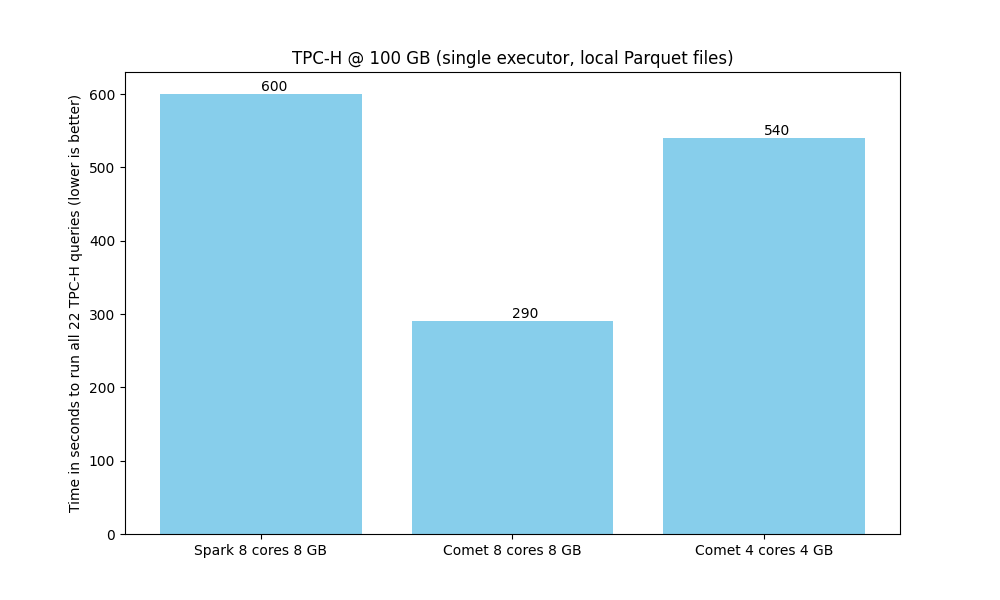
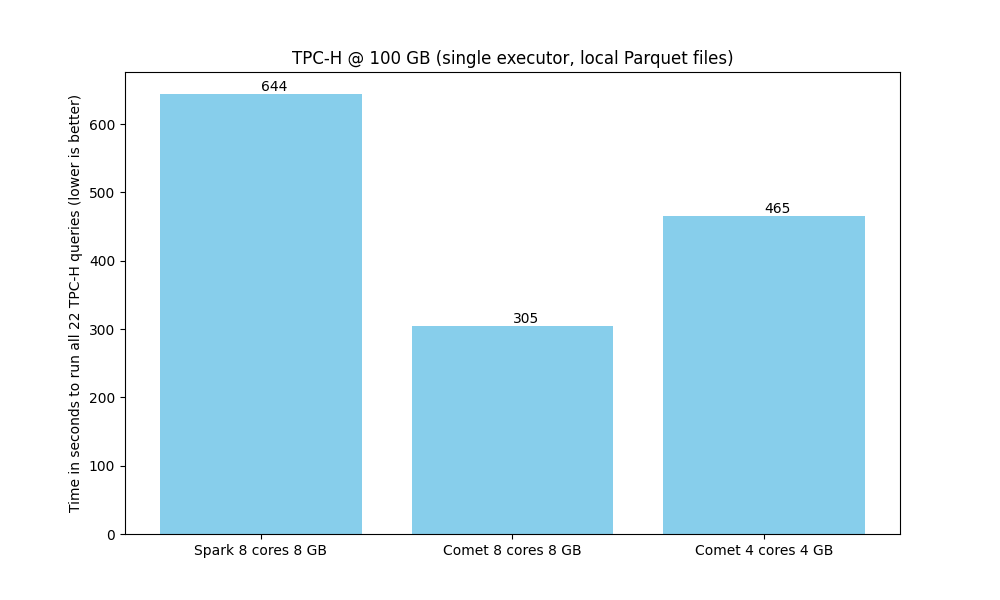
use correct numbers in chart

diff --git a/content/blog/2025-03-20-datafusion-comet-0.7.0.md b/content/blog/2025-03-20-datafusion-comet-0.7.0.md
@@ -48,8 +48,8 @@ contributors. See the [change log] for more information.
 Comet 0.7.0 has improved performance compared to the previous release due to improvements in the native shuffle 
 implementation and performance improvements in DataFusion 46.
 
-For single-node TPC-H at 100 GB, Comet now delivers a **2.2x speedup** compared to Spark using the same CPU and RAM. Even 
-with **half the resources**, Comet still provides a measurable performance improvement.
+For single-node TPC-H at 100 GB, Comet now delivers a **greater than 2x speedup** compared to Spark using the same 
+CPU and RAM. Even with **half the resources**, Comet still provides a measurable performance improvement.
 
 <img
 src="/blog/images/comet-0.7.0/performance.png"
